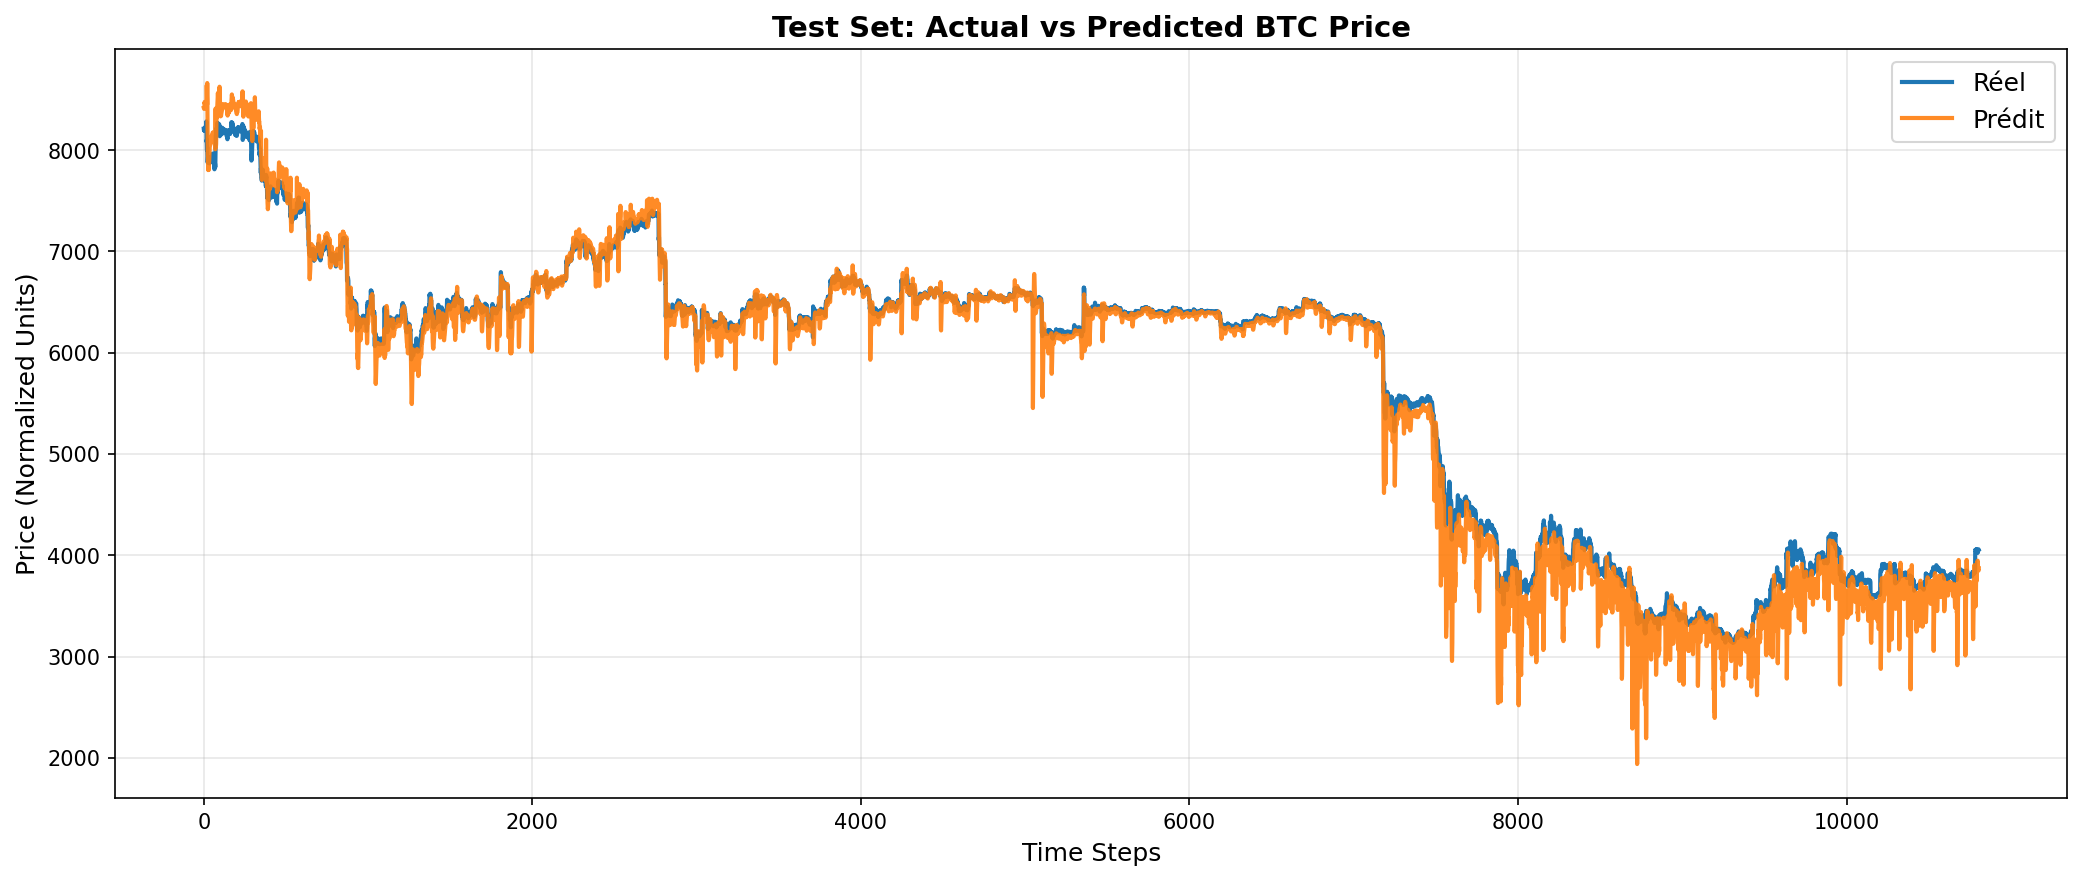
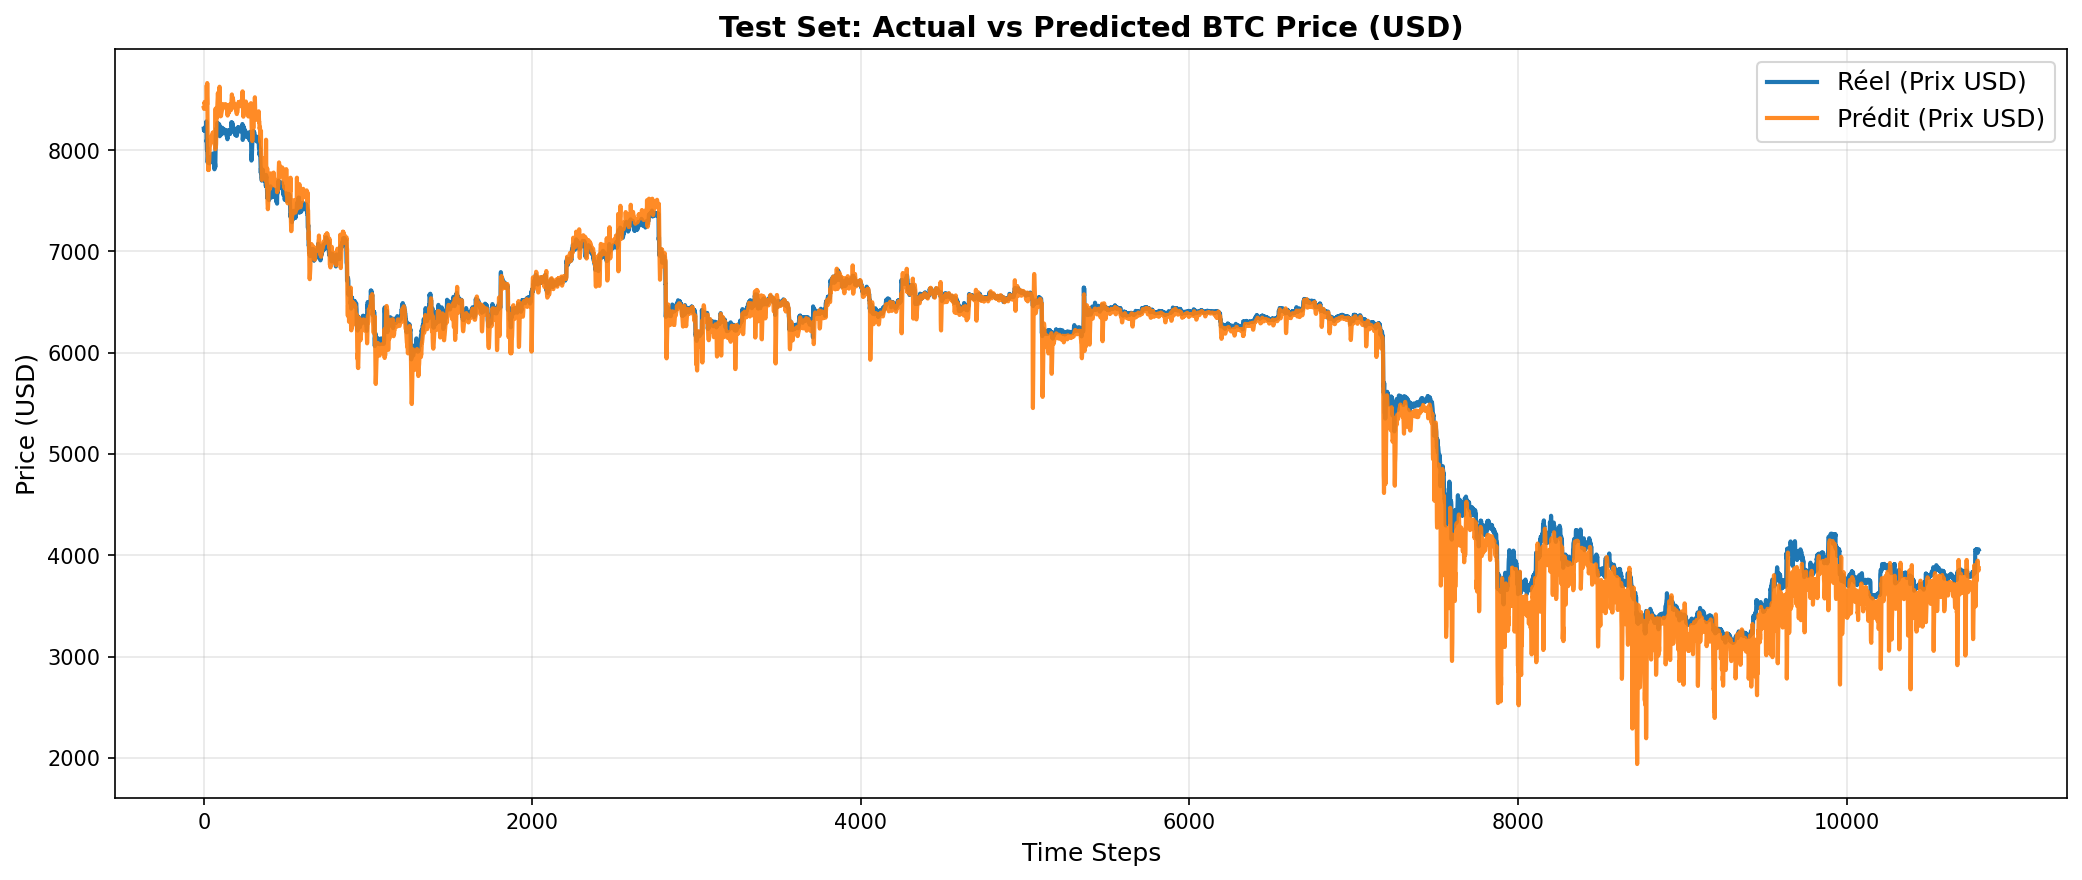
Fix graph evaluation: use official test set, add real Bitcoin prices, update generated graph

diff --git a/supervised_learning/time_series/evaluate_model.py b/supervised_learning/time_series/evaluate_model.py
@@ -1,8 +1,16 @@
 #!/usr/bin/env python3
 """
 Evaluate the trained model and visualize predictions vs actual values
+
+The model uses past 24 hours of BTC data to predict the next hour's price.
+This script evaluates on the official test set (the future data).
+
+Usage:
+  python3 evaluate_model.py              # Official test set (default)
+  python3 evaluate_model.py random       # Random period within test set
 """
 
+import sys
 import numpy as np
 import matplotlib.pyplot as plt
 from tensorflow import keras
@@ -15,13 +23,16 @@ print("✅ Model loaded!")
 # Load data
 data = np.load('btc_normalized.npz')
 values = data['data']
+original_values = data['original_data']
 scaler_mean = data['mean']
 scaler_std = data['std']
 
 print(f"Loaded {len(values)} timesteps")
 
-# Subsample (same as training)
+# Keep track of original indices before subsampling
+original_len = len(values)
 values = values[::20]
+original_values = original_values[::20]  # Subsample original values too!
 n = len(values)
 print(f"Subsampled to {n} steps")
 
@@ -40,8 +51,30 @@ def make_windows(start, end):
 train_size = int(0.7 * n)
 val_size = int(0.15 * n)
 test_start = train_size + val_size
+test_end = n
+
+# Choose period based on command line argument
+if len(sys.argv) > 1:
+    period = sys.argv[1].lower()
+    if period == "random":
+        # Random window within test set, but must leave room for WINDOW_SIZE + HORIZON
+        max_start = test_end - WINDOW_SIZE - HORIZON
+        if max_start > test_start:
+            test_start = np.random.randint(test_start, max_start)
+            print(f"📍 Period: RANDOM within test set (index {test_start})")
+        else:
+            print(f"📍 Period: RANDOM unavailable (test set too small). Using official test set.")
+    else:
+        print(f"⚠  Unknown option '{period}'. Using official test set.")
+else:
+    # Default: official test set (70-100%)
+    print("📍 Period: OFFICIAL TEST SET (70-100%, future data)")
 
 test_X, test_y = make_windows(test_start, n)
+
+# Get original prices for these test indices (REAL Bitcoin prices)
+test_indices = np.arange(test_start, n - WINDOW_SIZE - HORIZON)
+original_test_y = original_values[test_indices + WINDOW_SIZE, 0]
 
 print(f"Test set: {len(test_X)} samples")
 
@@ -49,21 +82,20 @@ print(f"Test set: {len(test_X)} samples")
 print("\n🔮 Making predictions...")
 predictions_norm = model.predict(test_X, verbose=0)
 
-# Denormalize
-predictions = predictions_norm * scaler_std[0] + scaler_mean[0]
-actual = test_y * scaler_std[0] + scaler_mean[0]
+# Convert to real prices (denormalize) - use same epsilon as preprocessing
+predictions_usd = predictions_norm.flatten() * (scaler_std[0] + 1e-6) + scaler_mean[0]
 
 print(f"✅ Predictions made!")
-print(f"Mean Absolute Error: ${np.mean(np.abs(predictions - actual)):.2f}")
-print(f"RMSE: ${np.sqrt(np.mean((predictions - actual)**2)):.2f}")
+print(f"Mean Absolute Error: ${np.mean(np.abs(predictions_usd - original_test_y)):.2f}")
+print(f"RMSE: ${np.sqrt(np.mean((predictions_usd - original_test_y)**2)):.2f}")
 
-# Plot
+# Plot with REAL prices
 plt.figure(figsize=(14, 6))
-plt.plot(actual, label='Réel', linewidth=2, color='#1f77b4')
-plt.plot(predictions, label='Prédit', linewidth=2, color='#ff7f0e', alpha=0.9)
-plt.title('Test Set: Actual vs Predicted BTC Price', fontsize=14, fontweight='bold')
+plt.plot(original_test_y, label='Réel (Prix USD)', linewidth=2, color='#1f77b4')
+plt.plot(predictions_usd, label='Prédit (Prix USD)', linewidth=2, color='#ff7f0e', alpha=0.9)
+plt.title('Test Set: Actual vs Predicted BTC Price (USD)', fontsize=14, fontweight='bold')
 plt.xlabel('Time Steps', fontsize=12)
-plt.ylabel('Price (Normalized Units)', fontsize=12)
+plt.ylabel('Price (USD)', fontsize=12)
 plt.legend(fontsize=12, loc='best')
 plt.grid(True, alpha=0.3)
 plt.tight_layout()

diff --git a/supervised_learning/time_series/preprocess_data.py b/supervised_learning/time_series/preprocess_data.py
@@ -49,9 +49,10 @@ def main():
     # Normalise TOUT le dataset
     values_normalized = (values - scaler_mean) / (scaler_std + 1e-6)
     
-    # Sauvegarde UNIQUEMENT les données normalisées (light!)
+    # Sauvegarde les données normalisées ET originales
     np.savez("btc_normalized.npz", 
              data=values_normalized.astype(np.float32),
+             original_data=values.astype(np.float32),
              mean=scaler_mean.astype(np.float32),
              std=scaler_std.astype(np.float32))
     
